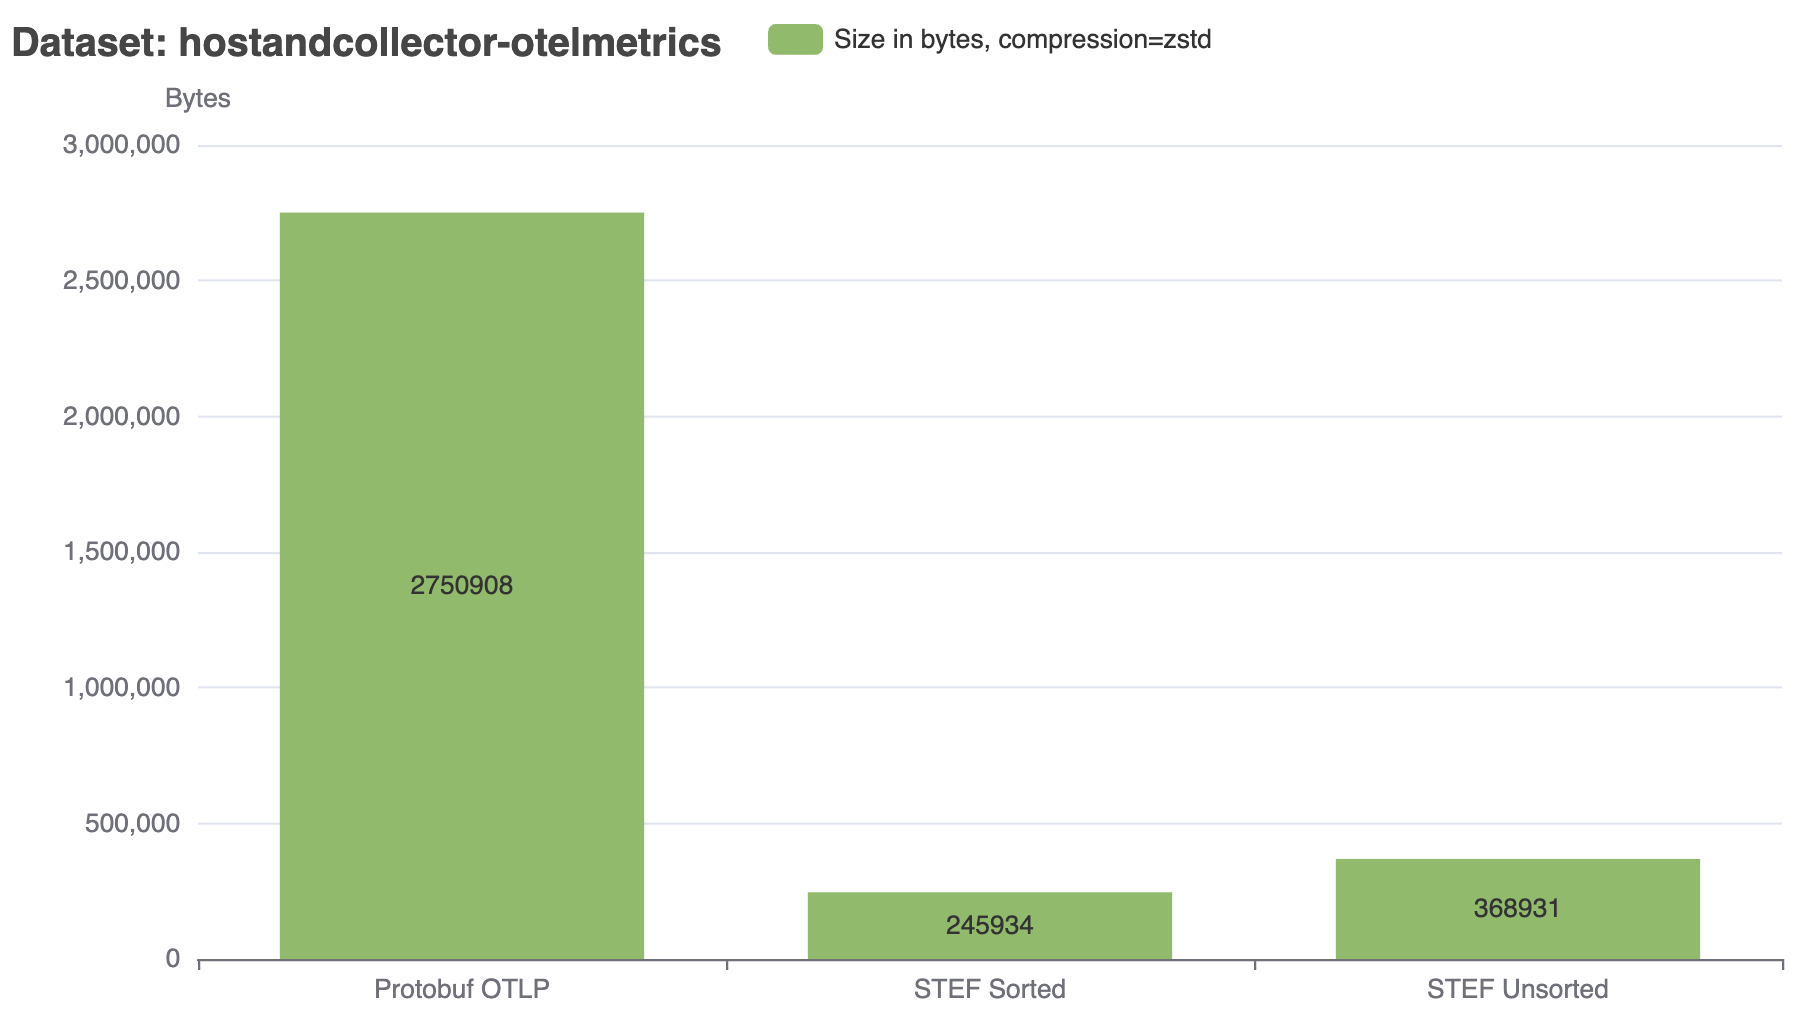
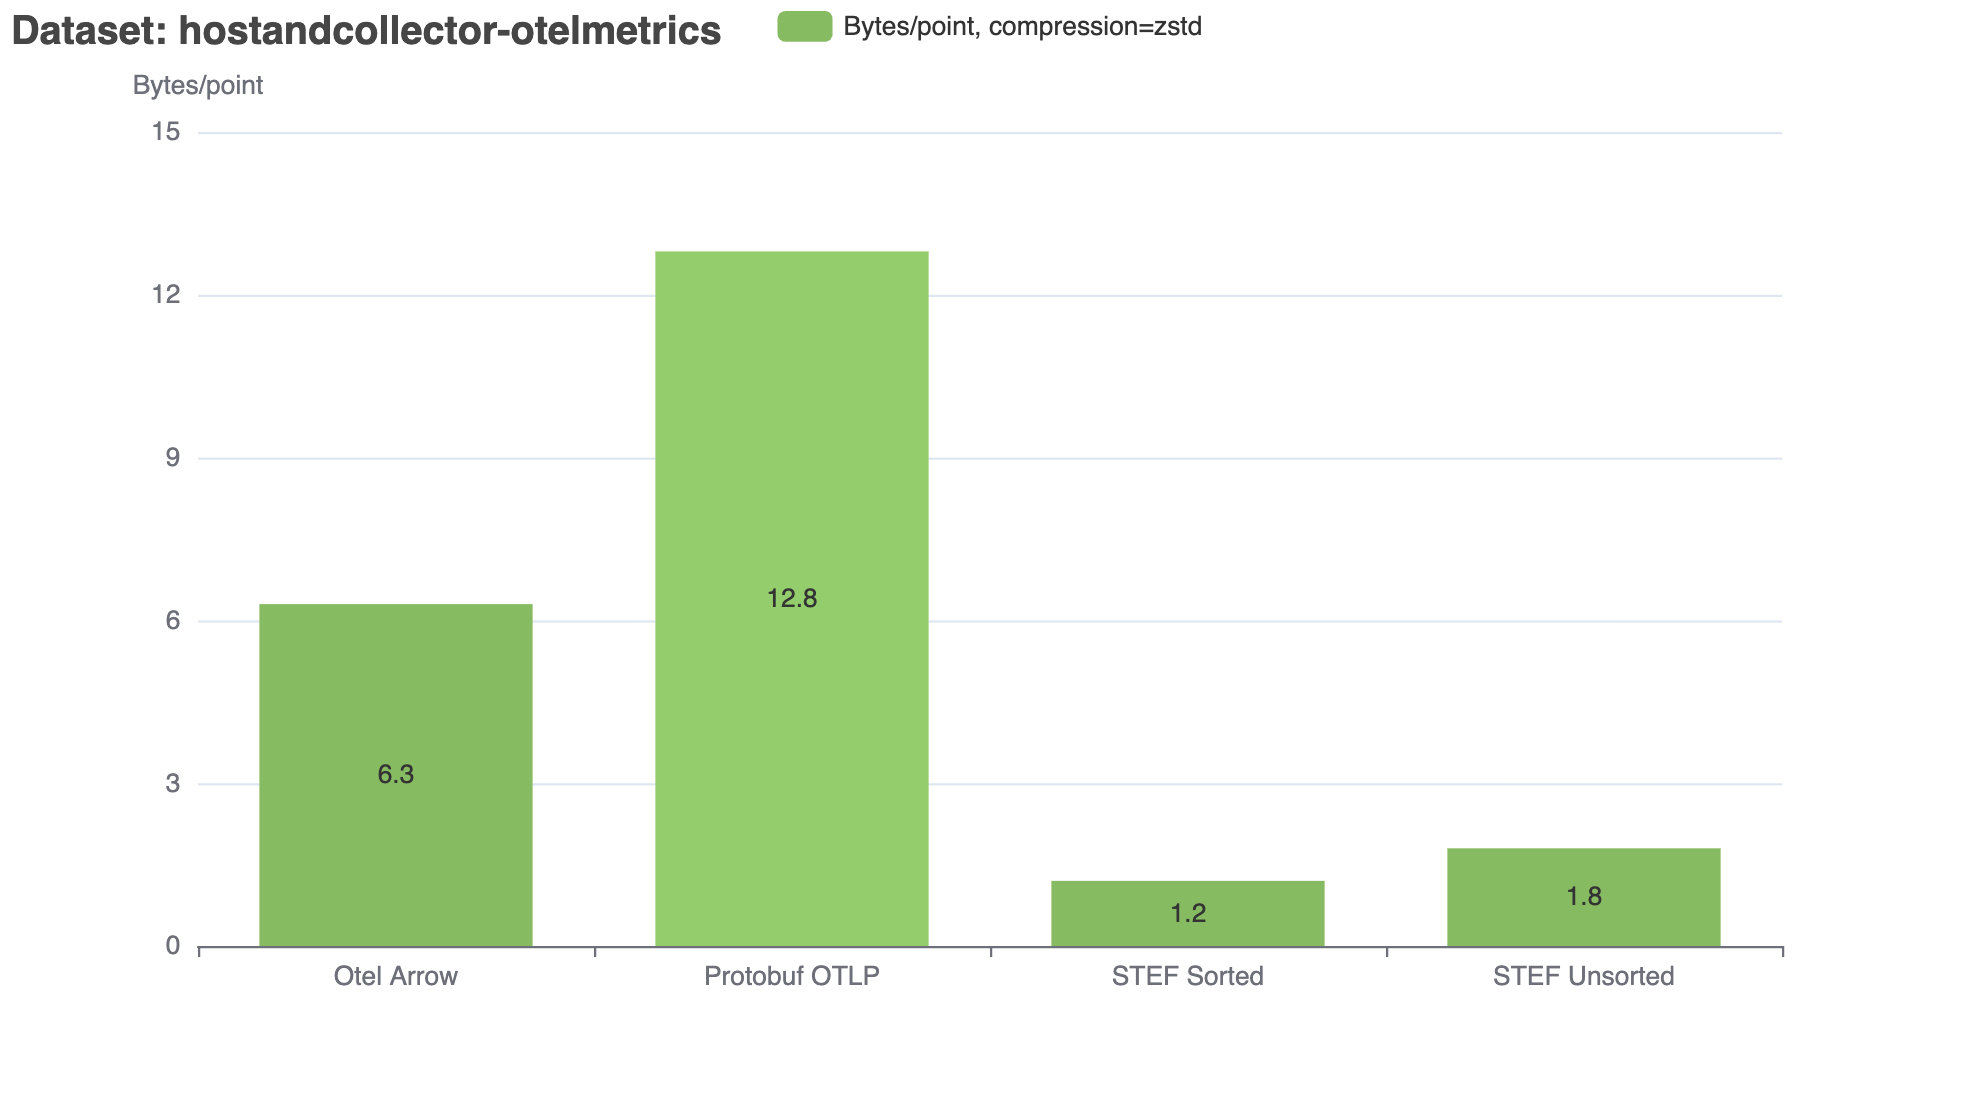
[exporter/stefexporter] Update README.md charts
The charts are from latest builds and are easier to understand since
they show unit sizes instead of total sizes.

diff --git a/exporter/stefexporter/README.md b/exporter/stefexporter/README.md
@@ -41,6 +41,11 @@ Here are some
 [STEF benchmark results](https://www.stefdata.net/benchmarks.html),
 comparing STEF and OTLP payload sizes for a few sample payloads produced by Collector:
 
+<img src="images/hostandcollectormetricssize.png">
+
+And here is a dataset from
+[Astronomy Shop demo](https://github.com/open-telemetry/opentelemetry-demo):
+
 <img src="images/astronomymetricssize.png">
 
 (This exporter implementation uses unsorted STEF format, labeled "STEF Unsorted" in 